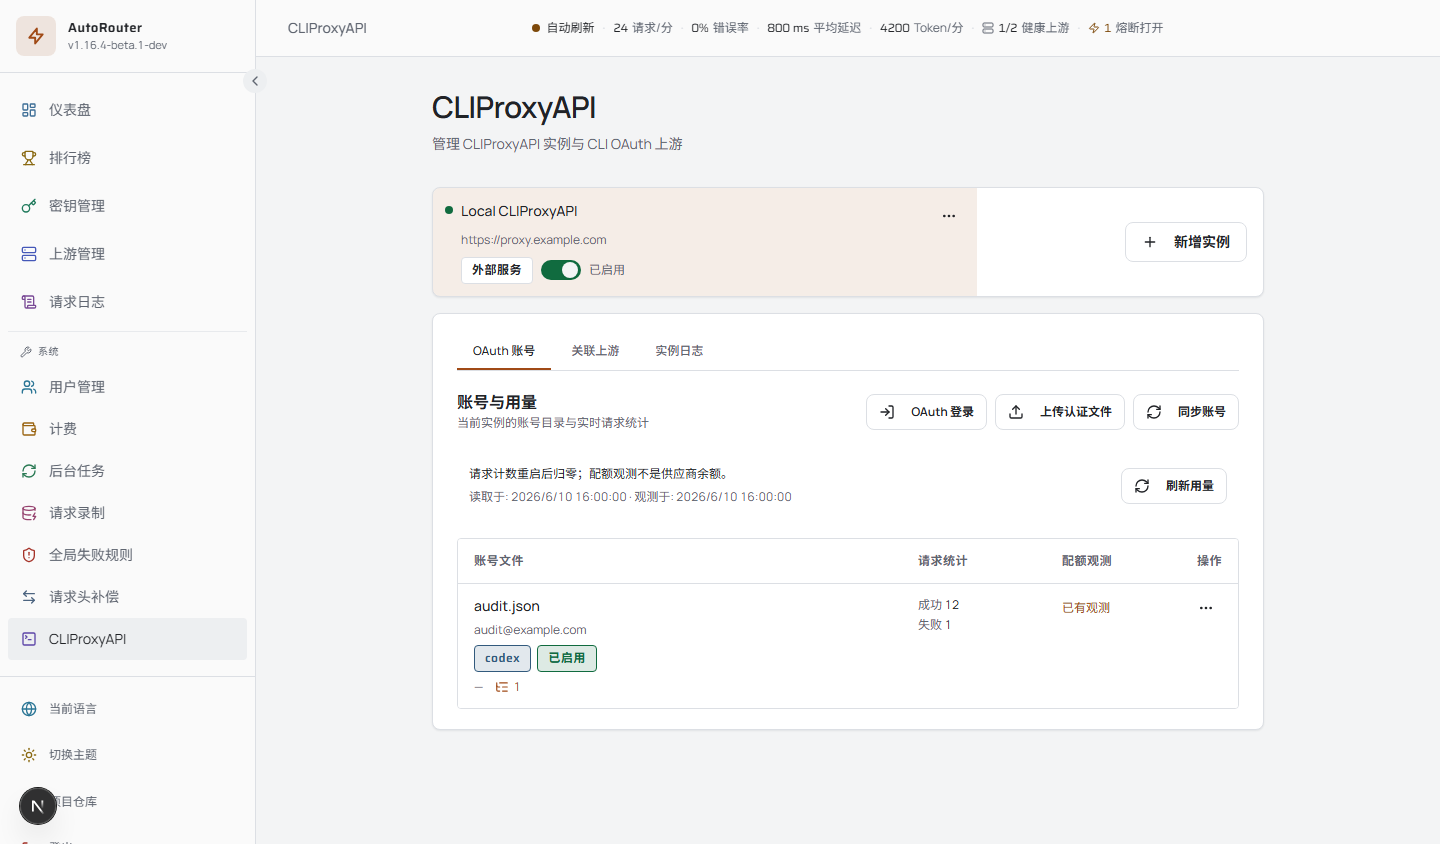
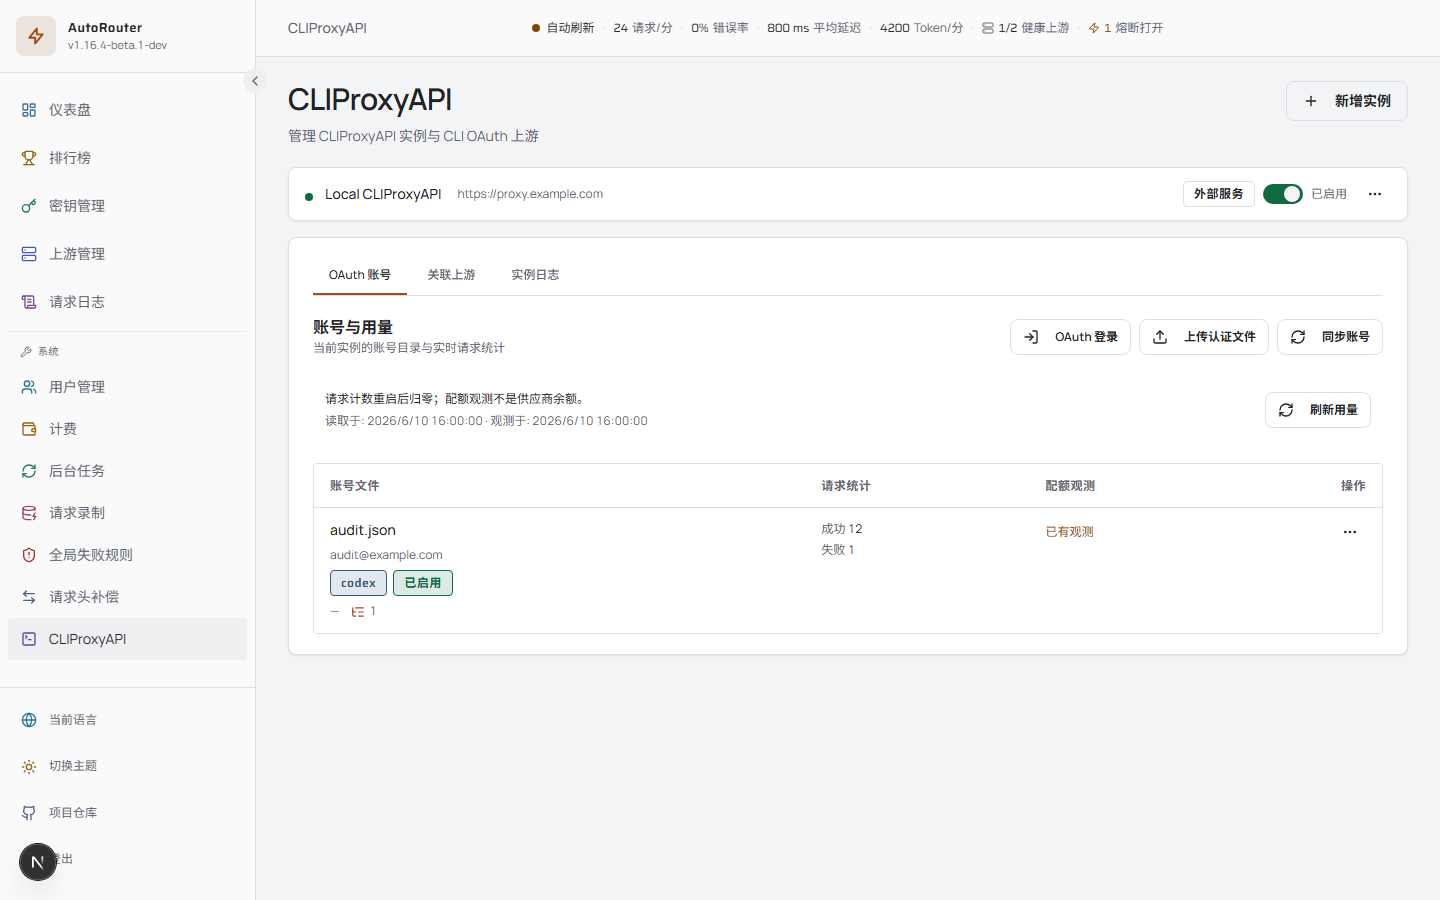
fix(cliproxy): 扩展工作台并收敛实例选中样式

diff --git a/src/app/[locale]/(dashboard)/system/cliproxy/page.tsx b/src/app/[locale]/(dashboard)/system/cliproxy/page.tsx
@@ -43,7 +43,6 @@ export default function CliproxyPage() {
   const selectedInstance =
     instances?.find((instance) => instance.id === selectedInstanceId) ?? instances?.[0] ?? null;
   const singleInstance = instances?.length === 1;
-  const narrowWorkspace = (instances?.length ?? 0) <= 1;
 
   const selectInstance = (instance: CliproxyInstance) => {
     setSelectedInstanceId(instance.id);
@@ -60,8 +59,28 @@ export default function CliproxyPage() {
     <>
       <Topbar title={t("pageTitle")} />
 
-      <PageShell maxWidth={narrowWorkspace ? "4xl" : "7xl"} className="space-y-5">
-        <PageHeader title={t("pageTitle")} description={t("pageDescription")} />
+      <PageShell maxWidth="full" className="space-y-4 py-5 lg:space-y-5 lg:py-6">
+        <PageHeader
+          title={t("pageTitle")}
+          description={t("pageDescription")}
+          actions={
+            <Button
+              variant="outline"
+              onClick={(event) => {
+                const source = event.currentTarget;
+                morphSourceRef.current = source;
+                startMorph(() => setCreateOpen(true), {
+                  source,
+                  name: "morph-cliproxy-instance",
+                  mode: "enter",
+                });
+              }}
+            >
+              <Plus className="mr-2 h-4 w-4" />
+              {t("addInstance")}
+            </Button>
+          }
+        />
 
         <div
           className={cn(
@@ -72,14 +91,14 @@ export default function CliproxyPage() {
           <aside
             className={cn(
               "min-w-0 overflow-hidden rounded-cf-md border border-divider bg-card shadow-[var(--vr-shadow-xs)]",
-              singleInstance && "xl:flex xl:flex-row-reverse xl:items-center xl:justify-between"
+              singleInstance && "xl:col-span-full"
             )}
             aria-label={t("instancesTitle")}
           >
             <div
               className={cn(
                 "space-y-3 border-b border-divider px-4 py-4",
-                singleInstance && "xl:border-b-0 xl:py-3"
+                singleInstance && "hidden"
               )}
             >
               <div
@@ -93,25 +112,9 @@ export default function CliproxyPage() {
                   {instances?.length ?? 0}
                 </span>
               </div>
-              <Button
-                variant="outline"
-                className={cn("w-full justify-start", singleInstance && "xl:w-auto")}
-                onClick={(event) => {
-                  const source = event.currentTarget;
-                  morphSourceRef.current = source;
-                  startMorph(() => setCreateOpen(true), {
-                    source,
-                    name: "morph-cliproxy-instance",
-                    mode: "enter",
-                  });
-                }}
-              >
-                <Plus className="mr-2 h-4 w-4" />
-                {t("addInstance")}
-              </Button>
             </div>
 
-            <div className={cn("min-w-0", singleInstance && "xl:w-[34rem]")}>
+            <div className="min-w-0">
               <QueryStatus
                 error={isError}
                 fetching={isFetching && !isLoading}
@@ -161,7 +164,7 @@ export default function CliproxyPage() {
           >
             {selectedInstance ? (
               <div key={selectedInstance.id} className="min-w-0 space-y-5 content-enter">
-                <header className={cn("space-y-2", singleInstance && "xl:hidden")}>
+                <header className={cn("space-y-2", singleInstance && "hidden")}>
                   <div className="flex flex-wrap items-center gap-2">
                     <h2 className="min-w-0 break-words text-xl font-semibold tracking-tight text-foreground">
                       {selectedInstance.name}

diff --git a/src/components/admin/cliproxy-instances-table.tsx b/src/components/admin/cliproxy-instances-table.tsx
@@ -48,6 +48,7 @@ export function CliproxyInstancesTable({
   const toggleEnabled = useToggleCliproxyInstanceEnabled();
   const rowRefs = useRef<Map<string, HTMLTableRowElement>>(new Map());
   const rowSource = (id: string) => rowRefs.current.get(id) ?? null;
+  const singleInstance = instances.length === 1;
 
   return (
     <Table frame="none" className="table-fixed" containerClassName="rounded-none bg-transparent">
@@ -66,11 +67,18 @@ export function CliproxyInstancesTable({
               else rowRefs.current.delete(instance.id);
             }}
             onClick={() => onSelect(instance)}
-            data-state={selectedInstanceId === instance.id ? "selected" : undefined}
-            className="cursor-pointer last:border-b-0"
+            data-state={
+              !singleInstance && selectedInstanceId === instance.id ? "selected" : undefined
+            }
+            className="cursor-pointer last:border-b-0 data-[state=selected]:!bg-transparent data-[state=selected]:[&>td]:border-l-2 data-[state=selected]:[&>td]:border-primary"
           >
             <TableCell className="p-0 align-top">
-              <div className="flex min-w-0 items-start gap-2 px-3 py-3">
+              <div
+                className={cn(
+                  "flex min-w-0 items-start gap-2 px-3 py-3",
+                  singleInstance && "lg:items-center lg:gap-3 lg:px-4 lg:py-2.5"
+                )}
+              >
                 <span
                   aria-hidden="true"
                   className={cn(
@@ -78,7 +86,12 @@ export function CliproxyInstancesTable({
                     instance.enabled ? "bg-status-success" : "bg-muted-foreground/50"
                   )}
                 />
-                <div className="min-w-0 flex-1 space-y-2">
+                <div
+                  className={cn(
+                    "min-w-0 flex-1 space-y-2",
+                    singleInstance && "lg:flex lg:items-center lg:gap-4 lg:space-y-0"
+                  )}
+                >
                   <button
                     type="button"
                     className="block max-w-full truncate rounded-cf-sm text-left font-medium text-foreground hover:text-primary focus-visible:outline-none focus-visible:ring-2 focus-visible:ring-ring"
@@ -91,13 +104,19 @@ export function CliproxyInstancesTable({
                     {instance.name}
                   </button>
                   <p
-                    className="hidden truncate type-body-small text-muted-foreground lg:block"
+                    className={cn(
+                      "truncate type-body-small text-muted-foreground",
+                      singleInstance ? "lg:min-w-0 lg:max-w-[40%]" : "hidden lg:block"
+                    )}
                     title={instance.base_url}
                   >
                     {instance.base_url}
                   </p>
                   <div
-                    className="flex flex-wrap items-center gap-2"
+                    className={cn(
+                      "flex flex-wrap items-center gap-2",
+                      singleInstance && "lg:ml-auto lg:shrink-0"
+                    )}
                     onClick={(event) => event.stopPropagation()}
                   >
                     <Badge variant="secondary" className="hidden lg:inline-flex">

diff --git a/tests/e2e/application-cli.spec.ts b/tests/e2e/application-cli.spec.ts
@@ -28,6 +28,12 @@ for (const width of [1440, 320]) {
       await instance.focus();
       await page.keyboard.press("Enter");
       await expect(instance).toHaveAttribute("aria-pressed", "true");
+      await expect(
+        page
+          .getByRole("row")
+          .filter({ hasText: "Local CLIProxyAPI" })
+          .getByText("https://proxy.example.com", { exact: true })
+      ).toBeVisible();
       await expect(page.getByText("audit@example.com", { exact: true })).toBeVisible();
       await expect(page.getByRole("row").filter({ hasText: "audit@example.com" })).toContainText(
         "Success 12"
@@ -88,6 +94,27 @@ for (const width of [1440, 320]) {
     });
   }
 }
+
+test("single CLIProxy instance uses the desktop workspace width without a tinted selection", async ({
+  page,
+}) => {
+  await page.setViewportSize({ width: 1440, height: 900 });
+  await seedTheme(page, "light");
+  await mockApplicationPages(page);
+  await page.goto("/en/system/cliproxy");
+  await expect(page.getByText("audit@example.com", { exact: true })).toBeVisible();
+
+  const shell = await page.locator(".app-page").boundingBox();
+  const workspace = await page.locator(".app-page section[aria-label]").boundingBox();
+  expect(shell).not.toBeNull();
+  expect(workspace).not.toBeNull();
+  expect(workspace!.width / shell!.width).toBeGreaterThan(0.9);
+  expect(workspace!.y).toBeLessThan(280);
+  await expect(page.locator(".app-page aside tbody tr")).toHaveCSS(
+    "background-color",
+    "rgba(0, 0, 0, 0)"
+  );
+});
 
 test("account usage failure keeps account management and secondary views available", async ({
   page,

diff --git a/src/components/admin/cliproxy-accounts-table.tsx b/src/components/admin/cliproxy-accounts-table.tsx
@@ -92,10 +92,14 @@ export function CliproxyAccountsTable({
     <Table frame="subtle" className="table-fixed" containerClassName="rounded-cf-sm">
       <TableHeader>
         <TableRow>
-          <TableHead className="w-[54%] px-2 sm:w-auto sm:px-4">{t("columnAccountFile")}</TableHead>
-          <TableHead className="w-[31%] px-2 sm:w-36 sm:px-4">{t("columnRequests")}</TableHead>
-          <TableHead className="hidden w-32 lg:table-cell">{t("columnQuotaObservation")}</TableHead>
-          <TableHead className="w-[15%] px-1 text-right sm:w-16 sm:px-4">
+          <TableHead className="w-[54%] px-2 sm:w-[46%] sm:px-4">
+            {t("columnAccountFile")}
+          </TableHead>
+          <TableHead className="w-[31%] px-2 sm:w-[21%] sm:px-4">{t("columnRequests")}</TableHead>
+          <TableHead className="hidden lg:table-cell lg:w-[25%]">
+            {t("columnQuotaObservation")}
+          </TableHead>
+          <TableHead className="w-[15%] px-1 text-right sm:w-[8%] sm:px-4">
             {t("columnActions")}
           </TableHead>
         </TableRow>

diff --git a/openspec/changes/archive/2026-09-23-cliproxy-account-usage-workbench/design.md b/openspec/changes/archive/2026-09-23-cliproxy-account-usage-workbench/design.md
@@ -18,11 +18,12 @@
 
 ### 主工作区和次级视图
 
-单实例时，桌面将实例选择压成工作区上方的横向栏，并收紧页面最大宽度；多实例且视口至少 1280px 时，使用约 14rem 的独立实例栏与弹性账号工作区。更窄的视口纵向排列两个区域，避免实例栏挤压账号表。实例栏按内容高度结束，不随账号工作区拉伸。账号面板上方展示数据含义、读取时间、刷新状态，账号行以文件名／邮箱、状态和请求计数为主，更多信息与近期分桶、配额信号在详情中展开。次级视图以“账号”“关联上游”“实例日志”切换，只有可见视图装载其数据。实例项保留启停与操作菜单，账号项保留模型、下载、启停、编辑、映射与删除入口。
+单实例时，桌面将实例选择压成工作区上方的横向栏，工作区按侧栏之外的可用宽度展开，使用固定页面边距，不额外限制在窄容器内；新增实例操作放在页头。多实例且视口至少 1280px 时，使用约 14rem 的独立实例栏与弹性账号工作区。更窄的视口纵向排列两个区域，避免实例栏挤压账号表。实例栏按内容高度结束，不随账号工作区拉伸。实例选中态以窄边框表达，避免大面积着色。账号面板上方展示数据含义、读取时间、刷新状态，账号行以文件名／邮箱、状态和请求计数为主，更多信息与近期分桶、配额信号在详情中展开。次级视图以“账号”“关联上游”“实例日志”切换，只有可见视图装载其数据。实例项保留启停与操作菜单，账号项保留模型、下载、启停、编辑、映射与删除入口。
 
 ```text
 单实例桌面：
-┌ 当前实例 · 地址 · 状态 ──────────────── + 新增实例 ┐
+页头：CLIProxyAPI ─────────────────────── + 新增实例
+┌ 当前实例 · 地址 · 状态 ───────────────────────────┐
 └───────────────────────────────────────────────────┘
 ┌ 账号  关联上游  实例日志 ──────────────────────────┐
 │ 请求统计说明 · 本次读取时间 · 刷新用量              │
@@ -31,16 +32,17 @@
 
 多实例宽屏：
 ┌ 实例选择 ───────┐  ┌ 当前实例 · 地址 ────────────────┐
-│ + 新增实例      │  │ 账号  关联上游  实例日志         │
-│ ● 当前实例   ⋯  │  │ 请求统计 · 读取时间 · 刷新用量   │
-│ ○ 其他实例   ⋯  │  │ 账号 / 状态 / 用量 / 操作        │
-└────────────────┘  └─────────────────────────────────┘
+│ ● 当前实例   ⋯  │  │ 账号  关联上游  实例日志         │
+│ ○ 其他实例   ⋯  │  │ 请求统计 · 读取时间 · 刷新用量   │
+└────────────────┘  │ 账号 / 状态 / 用量 / 操作        │
+                    └─────────────────────────────────┘
 
 窄屏：
-┌ 实例选择 · + ─────┐
+页头：CLIProxyAPI · 新增实例
+┌ 实例选择 ─────────┐
 │ ● Local CLIProxy ⋯│
 └───────────────────┘
-当前实例 · 地址
+多实例时显示当前实例 · 地址
 账号 | 关联上游 | 日志
 刷新用量 · 读取时间
 账号文件 / 邮箱

diff --git a/openspec/changes/archive/2026-09-23-cliproxy-account-usage-workbench/specs/cliproxy-admin-ui/spec.md b/openspec/changes/archive/2026-09-23-cliproxy-account-usage-workbench/specs/cliproxy-admin-ui/spec.md
@@ -2,7 +2,7 @@
 
 ### Requirement: CLIProxyAPI 工作台信息层级
 
-管理页面 SHALL 以实例选择和所选实例的账号用量为主工作区，关联上游与实例日志为可切换的次级视图。实例创建、启停、编辑、检测、删除、账号登录、同步、上传和账号行操作 MUST 保持可用。桌面和窄屏布局 MUST 使当前实例、当前视图和主要操作可辨认，关键账号信息无需横向裁切即可读取。
+管理页面 SHALL 以实例选择和所选实例的账号用量为主工作区，关联上游与实例日志为可切换的次级视图。实例创建、启停、编辑、检测、删除、账号登录、同步、上传和账号行操作 MUST 保持可用。桌面和窄屏布局 MUST 使当前实例、当前视图和主要操作可辨认，关键账号信息无需横向裁切即可读取。单实例桌面工作区 MUST 使用侧栏之外的可用宽度，实例选中态 MUST 避免大面积着色。
 
 #### Scenario: 桌面管理
 - **WHEN** 管理员在桌面宽度选择一个实例
